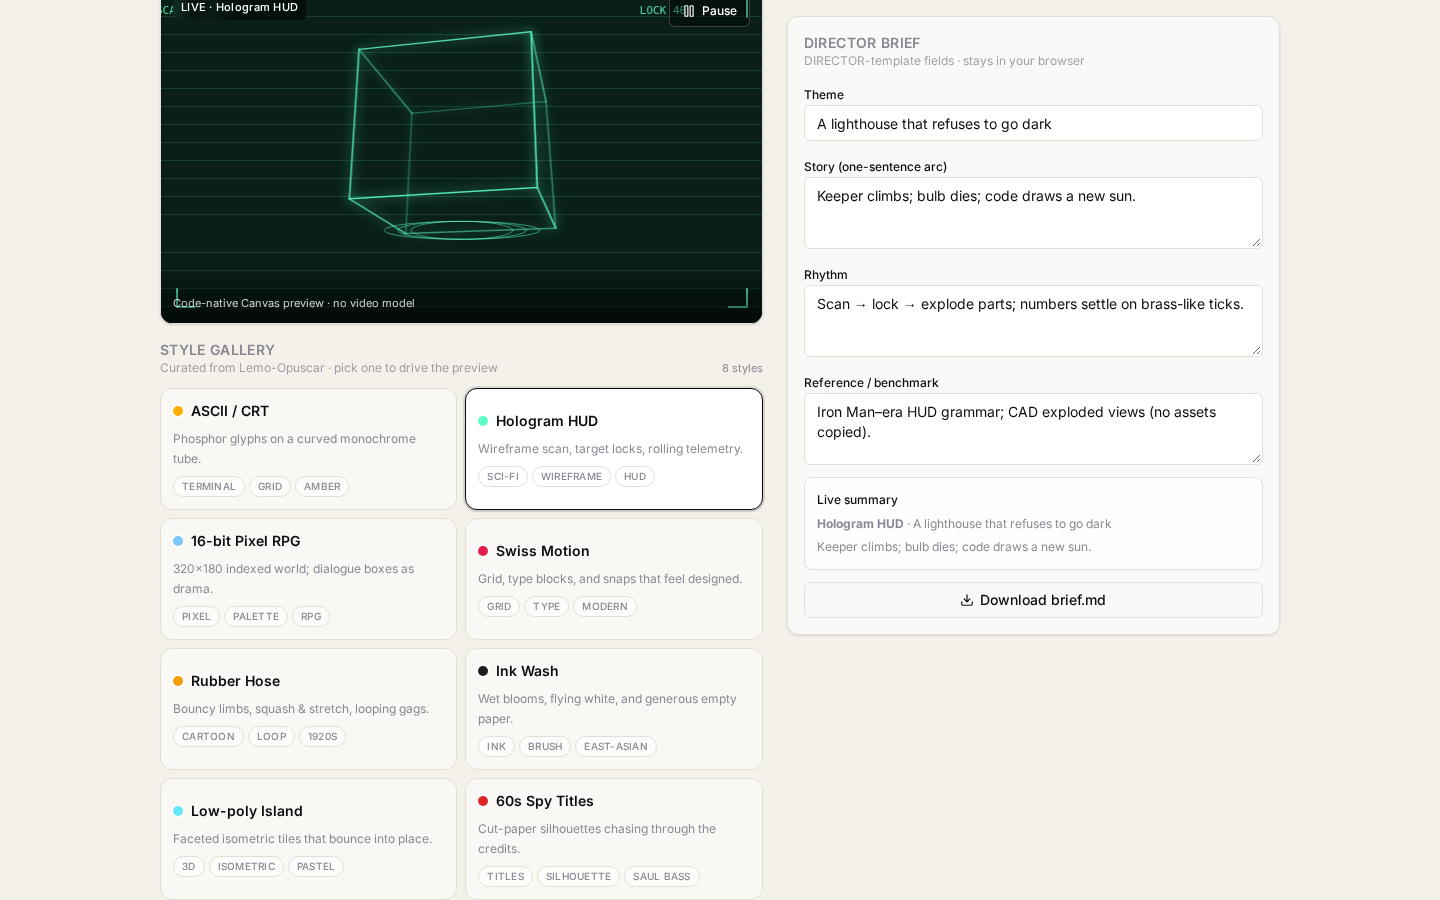
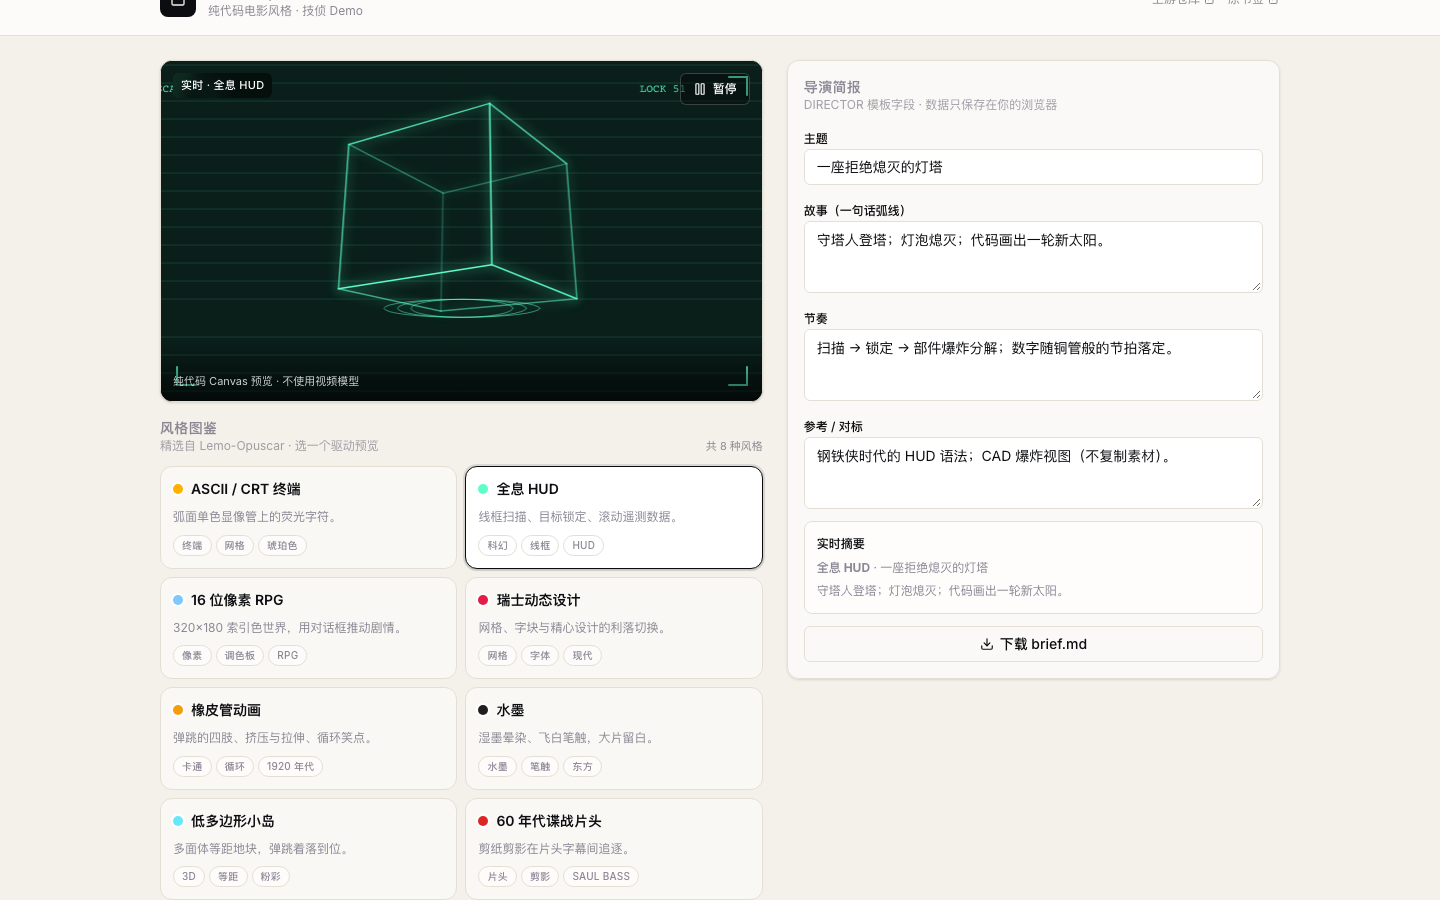
lemo-opuscar: translate UI to Simplified Chinese

Changed region(s): [[0.0938, 0.0, 0.5312, 0.9956], [0.5625, 0.0311, 0.875, 0.7156]]

diff --git a/apps/lemo-opuscar/src/data/styles.ts b/apps/lemo-opuscar/src/data/styles.ts
@@ -23,91 +23,91 @@ export type PreviewMode =
 export const STYLES: FilmStyle[] = [
   {
     id: 'ascii-crt',
-    name: 'ASCII / CRT',
-    tagline: 'Phosphor glyphs on a curved monochrome tube.',
-    tags: ['terminal', 'grid', 'amber'],
+    name: 'ASCII / CRT 终端',
+    tagline: '弧面单色显像管上的荧光字符。',
+    tags: ['终端', '网格', '琥珀色'],
     accent: '#ffb000',
     accentSoft: '#2a1f0a',
     previewMode: 'ascii-crt',
-    defaultRhythm: 'Cold pulse; typed beats; one warm surprise after silence.',
-    defaultReference: '1970s monochrome terminals; early-80s synth drones (grammar only).',
+    defaultRhythm: '冷峻脉冲；打字般的节拍；静默之后来一个温暖的惊喜。',
+    defaultReference: '1970 年代单色终端；80 年代初合成器氛围音（只借语法）。',
   },
   {
     id: 'hologram-hud',
-    name: 'Hologram HUD',
-    tagline: 'Wireframe scan, target locks, rolling telemetry.',
-    tags: ['sci-fi', 'wireframe', 'HUD'],
+    name: '全息 HUD',
+    tagline: '线框扫描、目标锁定、滚动遥测数据。',
+    tags: ['科幻', '线框', 'HUD'],
     accent: '#5dffc8',
     accentSoft: '#0a1f1a',
     previewMode: 'hologram-hud',
-    defaultRhythm: 'Scan → lock → explode parts; numbers settle on brass-like ticks.',
-    defaultReference: 'Iron Man–era HUD grammar; CAD exploded views (no assets copied).',
+    defaultRhythm: '扫描 → 锁定 → 部件爆炸分解；数字随铜管般的节拍落定。',
+    defaultReference: '钢铁侠时代的 HUD 语法；CAD 爆炸视图（不复制素材）。',
   },
   {
     id: 'pixel-rpg',
-    name: '16-bit Pixel RPG',
-    tagline: '320×180 indexed world; dialogue boxes as drama.',
-    tags: ['pixel', 'palette', 'RPG'],
+    name: '16 位像素 RPG',
+    tagline: '320×180 索引色世界，用对话框推动剧情。',
+    tags: ['像素', '调色板', 'RPG'],
     accent: '#7ec8ff',
     accentSoft: '#12182a',
     previewMode: 'pixel-rpg',
-    defaultRhythm: 'Walk cycle → dialog type → fanfare; palette depth as time.',
-    defaultReference: 'Mid-90s console RPG UI grammar; ENDESGA-like palettes.',
+    defaultRhythm: '行走循环 → 对话打字 → 号角齐鸣；用调色板深浅表现时间。',
+    defaultReference: '90 年代中期主机 RPG 的 UI 语法；类 ENDESGA 调色板。',
   },
   {
     id: 'swiss-motion',
-    name: 'Swiss Motion',
-    tagline: 'Grid, type blocks, and snaps that feel designed.',
-    tags: ['grid', 'type', 'modern'],
+    name: '瑞士动态设计',
+    tagline: '网格、字块与精心设计的利落切换。',
+    tags: ['网格', '字体', '现代'],
     accent: '#e11d48',
     accentSoft: '#f8f5f0',
     previewMode: 'swiss-motion',
-    defaultRhythm: 'Hard cuts on the grid; hold one long breath, then snap.',
-    defaultReference: 'International Typographic Style motion; Muller-Brockmann energy.',
+    defaultRhythm: '沿网格硬切；屏住一口长气，然后猛地切换。',
+    defaultReference: '国际主义排版风格的动态版；Müller-Brockmann 式的力量感。',
   },
   {
     id: 'rubber-hose',
-    name: 'Rubber Hose',
-    tagline: 'Bouncy limbs, squash & stretch, looping gags.',
-    tags: ['cartoon', 'loop', '1920s'],
+    name: '橡皮管动画',
+    tagline: '弹跳的四肢、挤压与拉伸、循环笑点。',
+    tags: ['卡通', '循环', '1920 年代'],
     accent: '#f59e0b',
     accentSoft: '#1a1208',
     previewMode: 'rubber-hose',
-    defaultRhythm: 'Gag every 2s; stretch into the turn; settle on a pose.',
-    defaultReference: '1920s rubber-hose cartoons (grammar only; no characters).',
+    defaultRhythm: '每 2 秒一个笑点；拉伸进入转折；定格在一个姿势上。',
+    defaultReference: '1920 年代橡皮管卡通（只借语法，不用角色）。',
   },
   {
     id: 'ink-wash',
-    name: 'Ink Wash',
-    tagline: 'Wet blooms, flying white, and generous empty paper.',
-    tags: ['ink', 'brush', 'east-asian'],
+    name: '水墨',
+    tagline: '湿墨晕染、飞白笔触，大片留白。',
+    tags: ['水墨', '笔触', '东方'],
     accent: '#1f1f1f',
     accentSoft: '#f2ecde',
     previewMode: 'ink-wash',
-    defaultRhythm: 'Slow bleed → sudden dry stroke → silence on blank paper.',
-    defaultReference: 'Chinese ink painting grammar; 留白 as pacing.',
+    defaultRhythm: '缓慢洇开 → 骤然一笔枯墨 → 留白处归于寂静。',
+    defaultReference: '中国水墨画语法；以留白控制节奏。',
   },
   {
     id: 'lowpoly-island',
-    name: 'Low-poly Island',
-    tagline: 'Faceted isometric tiles that bounce into place.',
-    tags: ['3D', 'isometric', 'pastel'],
+    name: '低多边形小岛',
+    tagline: '多面体等距地块，弹跳着落到位。',
+    tags: ['3D', '等距', '粉彩'],
     accent: '#67e8f9',
     accentSoft: '#0f172a',
     previewMode: 'lowpoly-island',
-    defaultRhythm: 'Each tile lands with a note; sun arc changes the palette.',
-    defaultReference: 'Townscaper / Monument Valley grammar (no assets).',
+    defaultRhythm: '每块地块落下都伴一个音符；太阳轨迹改变整体配色。',
+    defaultReference: 'Townscaper / 纪念碑谷的语法（不用素材）。',
   },
   {
     id: 'spy-titles',
-    name: '60s Spy Titles',
-    tagline: 'Cut-paper silhouettes chasing through the credits.',
-    tags: ['titles', 'silhouette', 'Saul Bass'],
+    name: '60 年代谍战片头',
+    tagline: '剪纸剪影在片头字幕间追逐。',
+    tags: ['片头', '剪影', 'Saul Bass'],
     accent: '#dc2626',
     accentSoft: '#f5e6c8',
     previewMode: 'spy-titles',
-    defaultRhythm: 'Brass stab = cut; chase → reveal title from pieces.',
-    defaultReference: 'Saul Bass title grammar; Catch Me If You Can homage energy.',
+    defaultRhythm: '铜管重音即剪辑点；追逐 → 由碎片拼出片名。',
+    defaultReference: 'Saul Bass 片头语法；致敬《猫鼠游戏》的气质。',
   },
 ]
 

diff --git a/apps/lemo-opuscar/src/components/BriefForm.tsx b/apps/lemo-opuscar/src/components/BriefForm.tsx
@@ -22,15 +22,15 @@ export function BriefForm({ style, brief, onChange }: Props) {
     onChange({ ...brief, [key]: value })
 
   const exportMd = () => {
-    const md = `# Director brief — ${style.name}
+    const md = `# 导演简报 — ${style.name}
 
-- **Style:** ${style.name} (\`${style.id}\`)
-- **Theme:** ${brief.theme || '—'}
-- **Story (one-sentence arc):** ${brief.story || '—'}
-- **Rhythm:** ${brief.rhythm || '—'}
-- **Reference / benchmark:** ${brief.reference || '—'}
+- **风格：** ${style.name} (\`${style.id}\`)
+- **主题：** ${brief.theme || '—'}
+- **故事（一句话弧线）：** ${brief.story || '—'}
+- **节奏：** ${brief.rhythm || '—'}
+- **参考 / 对标：** ${brief.reference || '—'}
 
-> Generated client-side by the lemo-opuscar scout demo. No API calls.
+> 由 lemo-opuscar 技侦 Demo 在浏览器本地生成，未调用任何 API。
 `
     const blob = new Blob([md], { type: 'text/markdown' })
     const url = URL.createObjectURL(blob)
@@ -45,53 +45,53 @@ export function BriefForm({ style, brief, onChange }: Props) {
     <div className="space-y-3">
       <div>
         <h2 className="text-sm font-semibold tracking-wide uppercase text-muted">
-          Director brief
+          导演简报
         </h2>
         <p className="text-xs text-muted/80">
-          DIRECTOR-template fields · stays in your browser
+          DIRECTOR 模板字段 · 数据只保存在你的浏览器
         </p>
       </div>
       <label className="block space-y-1">
-        <span className="text-xs font-medium">Theme</span>
+        <span className="text-xs font-medium">主题</span>
         <Input
-          placeholder="e.g. A lighthouse that refuses to go dark"
+          placeholder="例如：一座拒绝熄灭的灯塔"
           value={brief.theme}
           onChange={(e) => set('theme', e.target.value)}
         />
       </label>
       <label className="block space-y-1">
-        <span className="text-xs font-medium">Story (one-sentence arc)</span>
+        <span className="text-xs font-medium">故事（一句话弧线）</span>
         <Textarea
-          placeholder="Setup → turn → ending"
+          placeholder="铺垫 → 转折 → 结局"
           value={brief.story}
           onChange={(e) => set('story', e.target.value)}
         />
       </label>
       <label className="block space-y-1">
-        <span className="text-xs font-medium">Rhythm</span>
+        <span className="text-xs font-medium">节奏</span>
         <Textarea
           value={brief.rhythm}
           onChange={(e) => set('rhythm', e.target.value)}
         />
       </label>
       <label className="block space-y-1">
-        <span className="text-xs font-medium">Reference / benchmark</span>
+        <span className="text-xs font-medium">参考 / 对标</span>
         <Textarea
           value={brief.reference}
           onChange={(e) => set('reference', e.target.value)}
         />
       </label>
       <div className="rounded-lg border border-line bg-white/70 p-3 text-xs leading-relaxed text-muted">
-        <div className="mb-1 font-medium text-ink">Live summary</div>
+        <div className="mb-1 font-medium text-ink">实时摘要</div>
         <p>
           <strong>{style.name}</strong>
-          {brief.theme ? ` · ${brief.theme}` : ' · set a theme'}
+          {brief.theme ? ` · ${brief.theme}` : ' · 请设置主题'}
         </p>
-        <p className="mt-1 line-clamp-3">{brief.story || 'Story pending…'}</p>
+        <p className="mt-1 line-clamp-3">{brief.story || '故事待填写…'}</p>
       </div>
       <Button type="button" variant="outline" className="w-full" onClick={exportMd}>
         <Download className="size-3.5" />
-        Download brief.md
+        下载 brief.md
       </Button>
     </div>
   )

diff --git a/apps/lemo-opuscar/src/components/StylePreview.tsx b/apps/lemo-opuscar/src/components/StylePreview.tsx
@@ -68,7 +68,7 @@ export function StylePreview({ style }: Props) {
       <canvas ref={canvasRef} className="block h-[280px] w-full sm:h-[340px]" />
       <div className="pointer-events-none absolute inset-x-0 top-0 flex items-start justify-between p-3">
         <div className="rounded-md bg-black/50 px-2 py-1 text-[11px] font-medium tracking-wide text-white backdrop-blur">
-          LIVE · {style.name}
+          实时 · {style.name}
         </div>
         <div className="pointer-events-auto">
           <Button
@@ -76,15 +76,15 @@ export function StylePreview({ style }: Props) {
             variant="outline"
             className="border-white/20 bg-black/40 text-white hover:bg-black/60"
             onClick={() => setPlaying((p) => !p)}
-            aria-label={playing ? 'Pause preview' : 'Play preview'}
+            aria-label={playing ? '暂停预览' : '播放预览'}
           >
             {playing ? <Pause className="size-3.5" /> : <Play className="size-3.5" />}
-            {playing ? 'Pause' : 'Play'}
+            {playing ? '暂停' : '播放'}
           </Button>
         </div>
       </div>
       <div className="absolute inset-x-0 bottom-0 bg-gradient-to-t from-black/70 to-transparent px-3 pb-3 pt-8 text-[11px] text-white/80">
-        Code-native Canvas preview · no video model
+        纯代码 Canvas 预览 · 不使用视频模型
       </div>
     </div>
   )
@@ -324,7 +324,7 @@ function drawPixelRpg(
   ctx.strokeRect(12, boxY, w - 24, 56)
   ctx.fillStyle = '#fff'
   ctx.font = '12px monospace'
-  const msg = 'A code-native film. No video model.'
+  const msg = '一部纯代码电影，不用视频模型。'
   const shown = Math.floor((t * 12) % (msg.length + 8))
   ctx.fillText(msg.slice(0, Math.min(shown, msg.length)), 24, boxY + 28)
   if (Math.floor(t * 3) % 2 === 0 && shown >= msg.length) {

diff --git a/apps/lemo-opuscar/src/App.tsx b/apps/lemo-opuscar/src/App.tsx
@@ -38,10 +38,10 @@ export default function App() {
             </div>
             <div>
               <h1 className="text-base font-semibold tracking-tight">
-                Lemo-Opuscar studio
+                Lemo-Opuscar 工作室
               </h1>
               <p className="text-xs text-muted">
-                Code-native film styles · scout demo
+                纯代码电影风格 · 技侦 Demo
               </p>
             </div>
           </div>
@@ -52,7 +52,7 @@ export default function App() {
               target="_blank"
               rel="noreferrer"
             >
-              Upstream <ExternalLink className="size-3" />
+              上游仓库 <ExternalLink className="size-3" />
             </a>
             <a
               className="inline-flex items-center gap-1 text-muted hover:text-ink"
@@ -60,7 +60,7 @@ export default function App() {
               target="_blank"
               rel="noreferrer"
             >
-              Bookmark <ExternalLink className="size-3" />
+              原书签 <ExternalLink className="size-3" />
             </a>
           </div>
         </div>
@@ -77,11 +77,11 @@ export default function App() {
       </main>
 
       <footer className="border-t border-line px-4 py-6 text-center text-[11px] text-muted">
-        Inspired by{' '}
+        灵感来自{' '}
         <a className="underline" href="https://github.com/lemomo-ai/lemo-opuscar">
           lemomo-ai/lemo-opuscar
         </a>
-        . Client-only demo · no Claude API · no video model · {year}
+        。纯前端 Demo · 不调用 Claude API · 不使用视频模型 · {year}
       </footer>
     </div>
   )

diff --git a/apps/lemo-opuscar/src/components/StyleGallery.tsx b/apps/lemo-opuscar/src/components/StyleGallery.tsx
@@ -13,13 +13,13 @@ export function StyleGallery({ selectedId, onSelect }: Props) {
       <div className="flex items-end justify-between gap-2">
         <div>
           <h2 className="text-sm font-semibold tracking-wide uppercase text-muted">
-            Style gallery
+            风格图鉴
           </h2>
           <p className="text-xs text-muted/80">
-            Curated from Lemo-Opuscar · pick one to drive the preview
+            精选自 Lemo-Opuscar · 选一个驱动预览
           </p>
         </div>
-        <span className="text-[11px] text-muted">{STYLES.length} styles</span>
+        <span className="text-[11px] text-muted">共 {STYLES.length} 种风格</span>
       </div>
       <div className="grid grid-cols-1 gap-2 sm:grid-cols-2">
         {STYLES.map((style) => {

diff --git a/apps/lemo-opuscar/index.html b/apps/lemo-opuscar/index.html
@@ -1,10 +1,10 @@
 <!doctype html>
-<html lang="en">
+<html lang="zh-CN">
   <head>
     <meta charset="UTF-8" />
     <link rel="icon" type="image/svg+xml" href="/favicon.svg" />
     <meta name="viewport" content="width=device-width, initial-scale=1.0" />
-    <title>Lemo-Opuscar studio — scout demo</title>
+    <title>Lemo-Opuscar 工作室 — 技侦 Demo</title>
     <link rel="preconnect" href="https://fonts.googleapis.com" />
     <link rel="preconnect" href="https://fonts.gstatic.com" crossorigin />
     <link
